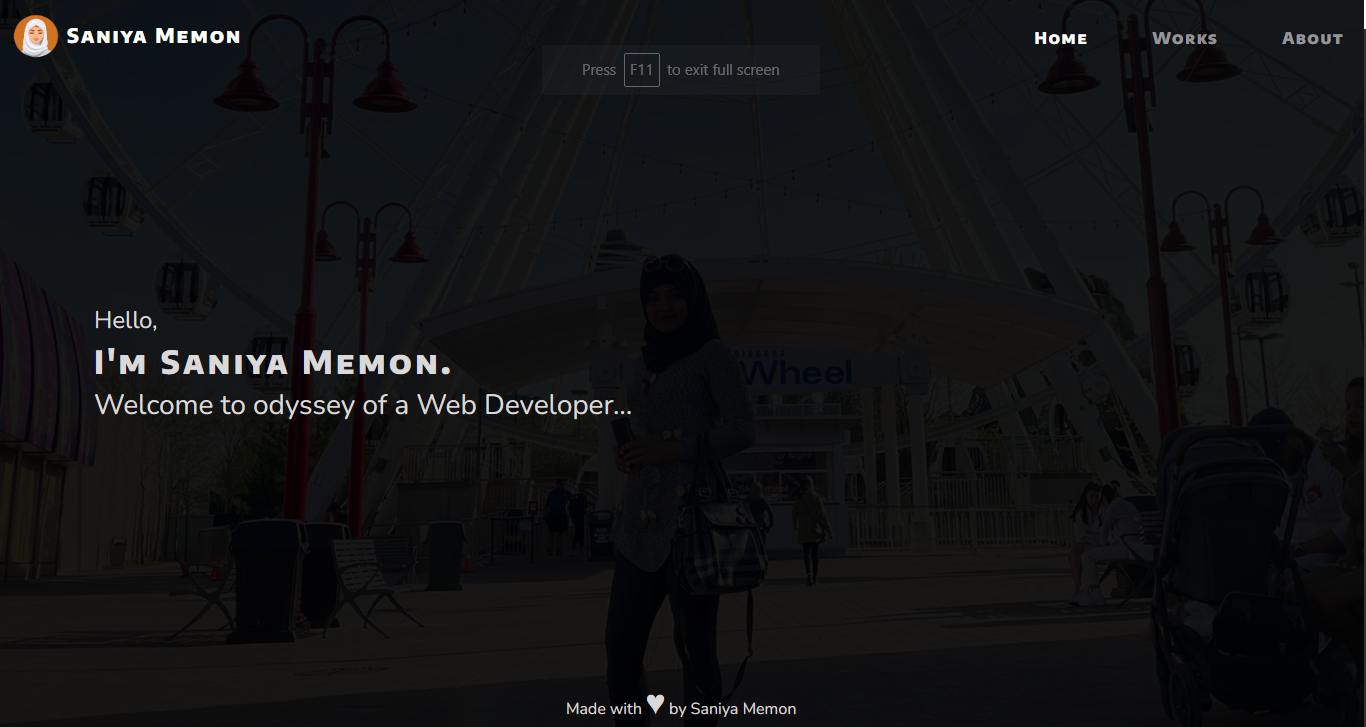
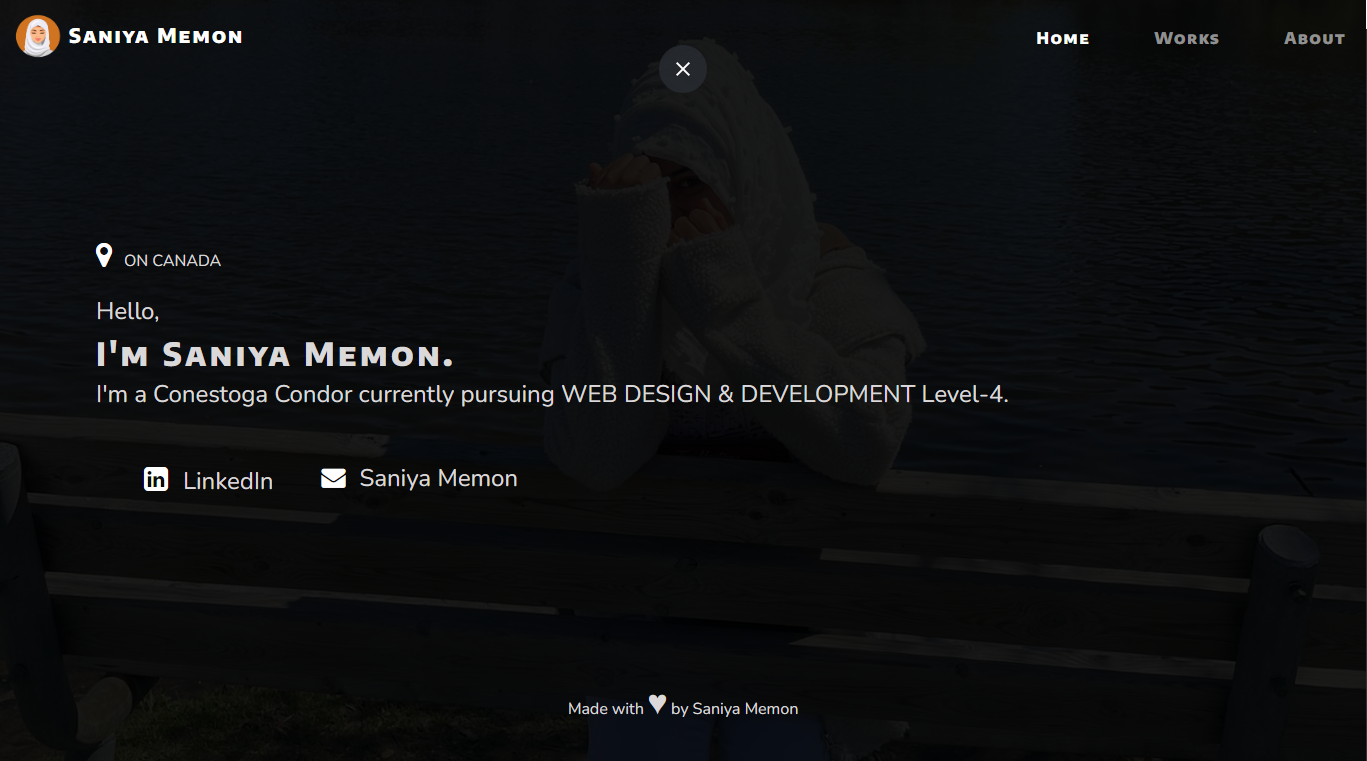
works page completed!

diff --git a/works.html b/works.html
@@ -12,6 +12,7 @@
 
     <!-- Link CSS Files -->
     <link rel="stylesheet" href="CSS/index.css">
+    <link rel="stylesheet" href="CSS/work.css">
 
     <!-- link to google fonts -->
     <link rel="preconnect" href="https://fonts.googleapis.com">
@@ -64,7 +65,7 @@
         <section class="flex-column align-items-start justify-content-center">
             <h1 class="headfonts fs-4 text-center m-2 text-center ">My Projects</h1>
             <div class="d-flex flex-row align-items-start justify-content-evenly flex-wrap">
-                <div class="card m-2" style="width: 18rem;">
+                <div class="card mt-5" style="width: 18rem;">
                     <img src="Images/sazi's decor.PNG" class="card-img-top"
                         alt="Shazi's Decor as my basic HTML/CSS project">
                     <div class="card-body">
@@ -76,7 +77,7 @@
                     </div>
                 </div>
 
-                <div class="card m-2" style="width: 18rem;">
+                <div class="card mt-5" style="width: 18rem;">
                     <img src="Images/calculator.PNG" class="card-img-top" alt="Calculator using javascript">
                     <div class="card-body">
                         <h5 class="headfonts text-dark card-title">Scientific Calculator Using JavaScript</h5>
@@ -87,21 +88,37 @@
                     </div>
                 </div>
 
-                <div class="card m-2" style="width: 18rem;">
-                    <img src="Images/portfolio.PNG" class="card-img-top" alt="Calculator using javascript">
+
+
+                <div class="card mt-5" style="width: 18rem;">
+                    <img src="Images/portfolio.PNG" class="card-img-top" alt="Portfolio website">
                     <div class="card-body">
                         <h5 class="headfonts text-dark card-title">Personal Portfolio</h5>
-                        <p class="parafonts text-dark card-text text-justify p-1">This is my portfolio designed as final
-                            individual project. </p>
+                        <p class="parafonts text-dark card-text text-justify p-1">This is my portfolio designed as
+                            Level-4 final
+                            individual project using besic HTML, CSS and Bootstrap. </p>
                         <a href="https://d-hizabi-programmer.github.io/MyPortfolio.github.io/"
+                            class="btn btn-dark parafonts">Go to website</a>
+                    </div>
+                </div>
+
+                <div class="card mt-5" style="width: 18rem;">
+                    <img src="Images/strongman-fitness.PNG" class="card-img-top"
+                        alt="Strongman fitness using JavaScript">
+                    <div class="card-body">
+                        <h5 class="headfonts text-dark card-title">Strongman Fitness</h5>
+                        <p class="parafonts text-dark card-text text-justify p-1">Strongman fitness was created as part
+                            of LEVEL-1 group project using javascript. In thi s project, javascript libraries for timer,
+                            slider, carousal and many more are used. </p>
+                        <a href="https://d-hizabi-programmer.github.io/Strongman-fitness-center.github.io/"
                             class="btn btn-dark parafonts">Go to website</a>
                     </div>
                 </div>
             </div>
         </section>
 
-        <footer class="text-center mt-4">
-            <p class="parafonts">Made with <span class="fs-2 "> &hearts;</span>&nbsp;by Saniya Memon
+        <footer class="text-center mt-4 ">
+            <p class="parafonts mb-0">Made with <span class="fs-2 "> &hearts;</span>&nbsp;by Saniya Memon
             </p>
         </footer>
 

diff --git a/index.html b/index.html
@@ -27,8 +27,8 @@
     <title>Saniya Memon | Web Developer</title>
 
     <!-- font awesom library -->
-    <link rel="stylesheet" href="https://use.fontawesome.com/releases/v5.8.1/css/all.css"
-        integrity="sha384-50oBUHEmvpQ+1lW4y57PTFmhCaXp0ML5d60M1M7uH2+nqUivzIebhndOJK28anvf" crossorigin="anonymous">
+    <link href="https://fonts.googleapis.com/icon?family=Material+Icons" rel="stylesheet">
+    <link rel="stylesheet" href="https://cdnjs.cloudflare.com/ajax/libs/font-awesome/4.7.0/css/font-awesome.min.css">
 
 </head>
 
@@ -61,14 +61,37 @@
                 </div>
             </div>
         </nav>
-        <section id="home" class="d-flex flex-column align-items-start justify-content-center mt-1 ms-5 me-5 mb-4 h-75">
+        <section id="home" class=" d-flex flex-column align-items-start justify-content-center mt-1  ">
+            <div class="d-flex flex-row ms-5">
+                <i class="fa fa-map-marker parafonts text-white text-md-start  fs-3"></i>
+                <p class="parafonts fs-6 text-md-start ms-1 align-bottom p-2"> ON CANADA</p>
+            </div>
+
             <h1 class="parafonts fs-4 text-md-start ms-5">Hello,</h1>
             <h2 class="headfonts text-md-start ms-5">I'm Saniya Memon. </h2>
-            <h3 class="parafonts text-md-start ms-5"> Welcome to odyssey of a Web Developer...</h3>
+            <h3 class="parafonts text-md-start ms-5 fs-4"> I'm a Conestoga Condor currently pursuing WEB DESIGN &
+                DEVELOPMENT
+                Level-4.</h3>
+            <div class="d-flex flex-row ms-5 mt-5">
+                <a href="https://www.linkedin.com/in/saniyamemon/" class="ms-5">
+                    <!-- <i class="fa fa-map-marker "></i> -->
+                    <i class="fa parafonts text-white text-md-start  fs-3">&#xf08c; <span
+                            class="parafonts fs-4 ms-2">LinkedIn</span>
+                    </i>
+                </a>
+
+                <a href="mailto:saniyamemon7862@gmail.com" class="ms-5">
+                    <!-- <i class="fa fa-map-marker "></i> -->
+                    <i class="fa parafonts text-white text-md-start  fs-4">&#xf0e0; <span
+                            class="parafonts fs-4 ms-2">Saniya Memon</span>
+                    </i>
+                </a>
+                <!-- <p class="parafonts fs-6 text-md-start ms-1 align-middle p-2"> </p> -->
+            </div>
         </section>
 
-        <footer class="text-center mt-4">
-            <p class="parafonts">Made with <span class="fs-2 "> &hearts;</span>&nbsp;by Saniya Memon
+        <footer class="text-center mt-4 mb-0">
+            <p class="parafonts mb-0">Made with <span class="fs-2 "> &hearts;</span>&nbsp;by Saniya Memon
             </p>
         </footer>
 

diff --git a/CSS/index.css b/CSS/index.css
@@ -22,19 +22,31 @@
 
 /* body selector */
 body {
-  background-image: url("../Images/bg-1.jpeg");
-  background-repeat: no-repeat;
-  background-size: cover;
-  background-position: center;
+  height:max-content;
+  background: url("../Images/bg-2.jpeg") no-repeat center fixed;
+  /* background-repeat: no-repeat;
+  background-size: 100%;
+  background-position: center; */
   background-color: rgba(0, 0, 0, 0.801);
 }
 
 /* wrapper id */
 #wrapper {
   width: 100%;
-  height: 100vh;
+  height: max-content;
   /* border: 2px solid red; */
-  background-color: rgba(0, 0, 0, 0.9);
+  /* background: url("../Images/bg-2.jpeg") no-repeat 100% center;
+              
+              background-attachment: scroll;
+  /* background-repeat: no-repeat;
+  background-size: scroll;
+  background-position: center; */ 
+  background-color: rgba(0, 0, 0, 0.8);
+
+}
+/* navigation background */
+nav{
+  background: transparent;
 }
 
 /* navbarf item class */
@@ -56,8 +68,14 @@ body {
 }
 .card{
   box-shadow: 0 5px 10px rgba(255, 255, 255, 0.6), 0 3px 3px rgba(255, 255, 255, 0.6);      
-
 }
+#home{
+  height: 75vh;
+}
+
+
+
+
 
 
 

diff --git a/about.html b/about.html
@@ -12,6 +12,7 @@
 
     <!-- Link CSS Files -->
     <link rel="stylesheet" href="CSS/index.css">
+    <link rel="stylesheet" href="CSS/about.css">
 
     <!-- link to google fonts -->
     <link rel="preconnect" href="https://fonts.googleapis.com">

diff --git a/CSS/work copy.css b/CSS/work copy.css
@@ -1,0 +1,7 @@
+body {
+    background: url("../Images/bg-1.jpeg") no-repeat center fixed;
+    /* background-repeat: no-repeat;
+    background-size: scroll;
+    background-position: center; */
+    background-color: rgba(0, 0, 0, 0.801);
+  }

diff --git a/CSS/work.css b/CSS/work.css
@@ -1,0 +1,7 @@
+body {
+    background: url("../Images/bg-1.jpeg") no-repeat center fixed;
+    /* background-repeat: no-repeat;
+    background-size: scroll;
+    background-position: center; */
+    background-color: rgba(0, 0, 0, 0.801);
+  }

diff --git a/CSS/about.css b/CSS/about.css
@@ -1,0 +1,4 @@
+body {
+    background: url("../Images/bg-3.jpeg") no-repeat center fixed;
+    background-color: rgba(0, 0, 0, 0.801);
+  }
